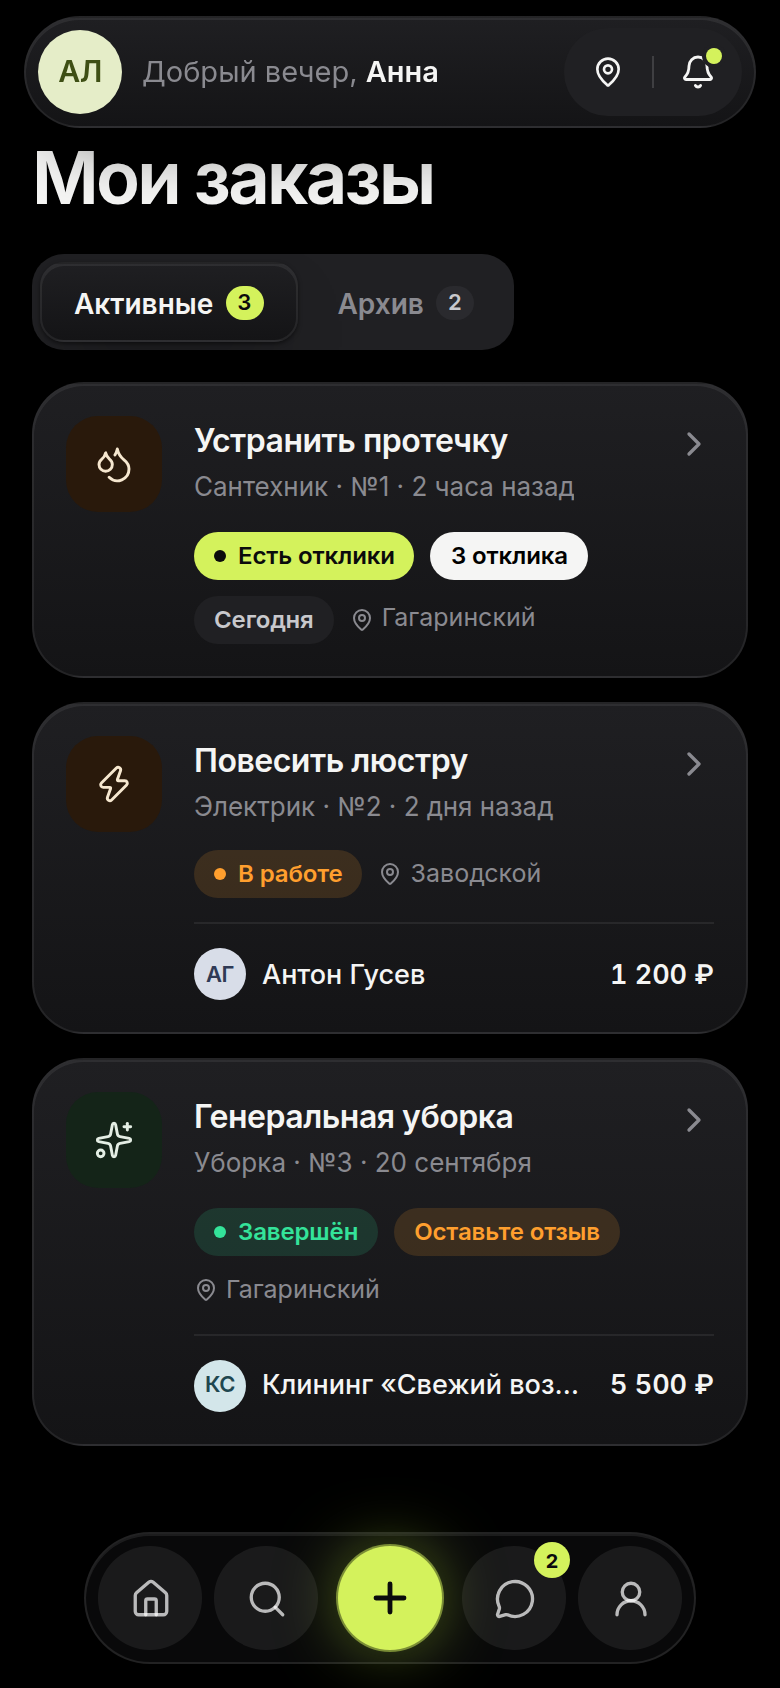
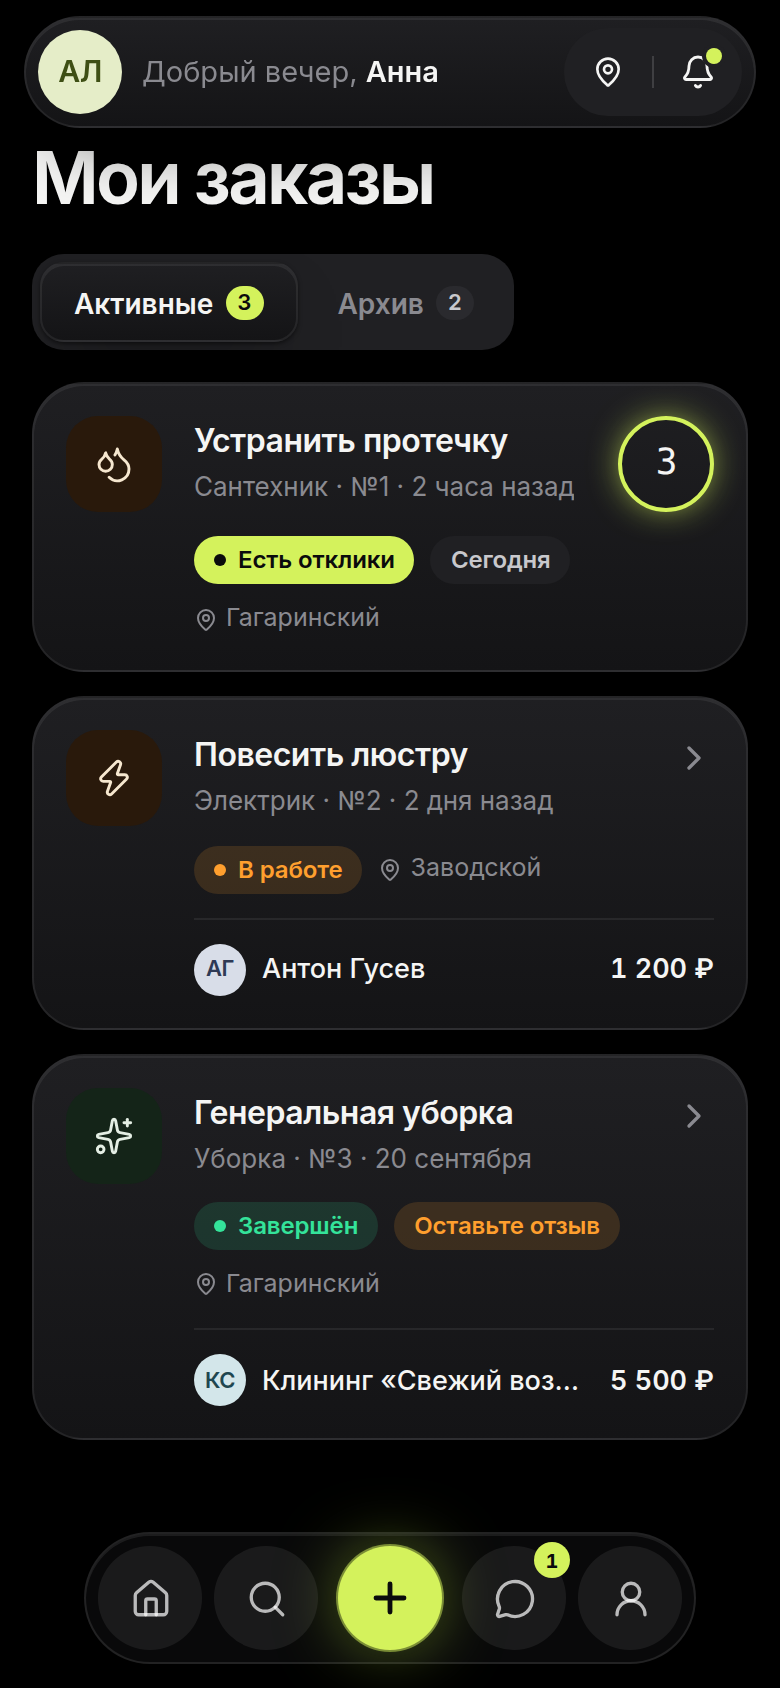
Adopt remaining reference details
- budget dial in the order wizard (tip calculator: -/+ stepper, tick ruler,
  preset pills, monospace digits, typical price in green)
- flight-style live order widget with dot-matrix glow and price/urgency card;
  collapsible to a pill, state remembered per session
- responses counter ring on order cards (Workouts)
- lesson-style tips on home driven by admin FAQ content (surf «Урок 3»)

Claude-Session: https://claude.ai/code/session_01Grf7ik62smv8vTxCKfPZfk

diff --git a/src/components/domain/live-order.tsx b/src/components/domain/live-order.tsx
@@ -1,7 +1,9 @@
+"use client";
 import Link from "next/link";
-import { ArrowUpRight, Hammer, Hourglass, MessageSquareText, UserCheck } from "lucide-react";
+import { useState, useSyncExternalStore } from "react";
+import { ArrowUpRight, ChevronUp, Hammer, Hourglass, MessageSquareText, UserCheck } from "lucide-react";
 import type { OrderListItem } from "@/server/services/orders";
-import { pl } from "@/lib/format";
+import { pl, URGENCY } from "@/lib/format";
 import { cn } from "@/lib/cn";
 
 const STAGES = ["new", "responses", "assigned", "in_progress", "completed"] as const;
@@ -23,35 +25,85 @@ function describe(o: OrderListItem) {
  * «Live activity» for the most relevant active order (references: Workouts timer card, flight progress).
  * Docked above the tab bar on phones, inline on desktop.
  */
+const KEY = "ryadom_live_collapsed";
+
 export function LiveOrder({ order, docked }: { order: OrderListItem; docked?: boolean }) {
+  const stored = useSyncExternalStore(
+    () => () => {},
+    () => sessionStorage.getItem(KEY) === order.id,
+    () => false,
+  );
+  const [toggled, setToggled] = useState<boolean | null>(null);
+  const collapsed = docked && (toggled ?? stored);
+  const toggle = (v: boolean) => {
+    setToggled(v);
+    try {
+      if (v) sessionStorage.setItem(KEY, order.id);
+      else sessionStorage.removeItem(KEY);
+    } catch {}
+  };
   const d = describe(order);
   const stage = STAGES.indexOf(order.status as (typeof STAGES)[number]);
   const pct = Math.max(12, ((stage + 1) / STAGES.length) * 100);
+  const price = order.agreedPrice ?? order.budget;
+  const hot = order.urgency === "urgent" || order.urgency === "today";
+  if (collapsed)
+    return (
+      <button
+        type="button"
+        onClick={() => toggle(false)}
+        aria-label={`Развернуть: заказ «${order.title}», ${d.label}`}
+        className="press fixed bottom-[calc(max(12px,var(--safe-bottom))+76px)] left-1/2 z-30 inline-flex h-11 -translate-x-1/2 items-center gap-2.5 rounded-full border border-white/10 bg-[#0b0b0c] pl-3.5 pr-3 text-[13.5px] text-white shadow-[0_16px_36px_-14px_rgb(0_0_0/0.8)] lg:hidden"
+      >
+        <span className="h-2.5 w-2.5 rounded-full bg-[#c8f050] shadow-[0_0_10px_#c8f050]" />
+        <span className="max-w-[46vw] truncate font-medium">{d.label}</span>
+        <span className="text-white/45 tabular">№{order.number}</span>
+        <ChevronUp className="h-4 w-4 text-white/60" />
+      </button>
+    );
   return (
     <Link
       href={`/orders/${order.id}`}
       aria-label={`Заказ «${order.title}»: ${d.label}`}
       className={cn(
-        "press group block rounded-[28px] border border-white/10 bg-[#0b0b0c] p-4 text-white shadow-[0_24px_50px_-20px_rgb(0_0_0/0.8),inset_0_1px_0_rgb(255_255_255/0.08)]",
+        "press group relative block overflow-hidden rounded-[28px] border border-white/10 bg-[#0b0b0c] p-4 text-white shadow-[0_24px_50px_-20px_rgb(0_0_0/0.8),inset_0_1px_0_rgb(255_255_255/0.08)]",
         docked && "fixed inset-x-3 bottom-[calc(max(12px,var(--safe-bottom))+76px)] z-30 mx-auto max-w-[520px] lg:hidden",
       )}
     >
-      {docked && <span aria-hidden className="mx-auto -mt-1.5 mb-2.5 block h-1 w-10 rounded-full bg-white/25" />}
-      <div className="flex items-center gap-3">
+      {/* dot-matrix glow (reference: flight widget) */}
+      <span aria-hidden className="pointer-events-none absolute inset-0 rounded-[28px] bg-[radial-gradient(circle,rgb(255_255_255/0.16)_1px,transparent_1.4px)] bg-[length:9px_9px] [mask-image:radial-gradient(ellipse_at_top_left,#000,transparent_60%)]" />
+      <span aria-hidden className="pointer-events-none absolute -left-10 -top-10 h-32 w-40 rounded-full bg-[#b7e34a]/15 blur-2xl" />
+      {docked && (
+        <button
+          type="button"
+          onClick={(e) => {
+            e.preventDefault();
+            e.stopPropagation();
+            toggle(true);
+          }}
+          aria-label="Свернуть виджет заказа"
+          className="relative mx-auto -mt-3 mb-1 flex h-7 w-16 items-center justify-center"
+        >
+          <span className="block h-1 w-10 rounded-full bg-white/25" />
+        </button>
+      )}
+      <div className="relative flex items-stretch gap-3">
         <div className="min-w-0 flex-1">
           <p className="truncate text-[12.5px] font-medium text-white/55">
             №{order.number} · {order.title}
           </p>
-          <p className="mt-0.5 truncate text-[22px] font-light leading-tight tracking-[-0.035em]">
-            {d.label}
-            {d.sub && <span className="ml-2 text-[14px] font-normal tracking-normal text-white/50">{d.sub}</span>}
-          </p>
+          <p className="mt-1 truncate text-[23px] font-light leading-tight tracking-[-0.035em]">{d.label}</p>
+          {d.sub && <p className="mt-0.5 truncate text-[13px] text-white/50">{d.sub}</p>}
         </div>
-        <span className="inline-flex h-11 w-11 shrink-0 items-center justify-center rounded-full bg-white/12 transition-transform group-hover:rotate-45">
-          <ArrowUpRight className="h-5 w-5" />
-        </span>
+        <div className="flex w-[40%] max-w-[170px] shrink-0 flex-col justify-between rounded-[18px] border border-white/10 bg-white/[0.04] px-3 py-2.5">
+          <div className="flex items-start justify-between gap-2">
+            <span className="mono text-[17px] leading-tight tabular">{price != null ? `${price.toLocaleString("ru-RU")} ₽` : "цена?"}</span>
+            <ArrowUpRight className="h-4 w-4 shrink-0 text-white/60 transition-transform group-hover:rotate-45" />
+          </div>
+          <span className={cn("mt-1 text-[11.5px] font-bold uppercase tracking-wide", hot ? "text-[#ff9f2e] [text-shadow:0_0_12px_rgb(255_159_46/0.5)]" : "text-white/45")}>{URGENCY[order.urgency].label}</span>
+        </div>
       </div>
-      <div className="mt-3 flex items-center gap-3">
+      <div className="relative mt-3 flex items-center gap-3">
         <div className="relative h-9 flex-1 overflow-hidden rounded-full bg-white/[0.06] shadow-[inset_0_1px_2px_rgb(0_0_0/0.6)]">
           <div
             className="absolute inset-y-0 left-0 flex items-center justify-end rounded-full bg-[linear-gradient(90deg,#b7e34a,#d9fb6a)] pr-3 shadow-[0_0_24px_rgb(200_245_80/0.55)]"

diff --git a/src/components/domain/budget-dial.tsx b/src/components/domain/budget-dial.tsx
@@ -1,0 +1,77 @@
+"use client";
+import { Minus, Plus } from "lucide-react";
+import { cn } from "@/lib/cn";
+import { useTelegram } from "../telegram/telegram-provider";
+
+function stepFor(v: number) {
+  return v < 3000 ? 100 : v < 20000 ? 500 : 1000;
+}
+
+/**
+ * Budget picker (reference: tip calculator): big monospace amount with −/+,
+ * a tick ruler slider, preset pills and the typical market price.
+ * value = "" means «no budget — providers will propose».
+ */
+export function BudgetDial({ value, onChange, typical }: { value: string; onChange: (v: string) => void; typical: number | null }) {
+  const { haptic } = useTelegram();
+  const base = typical && typical > 0 ? typical : 1000;
+  const max = Math.max(base * 4, 5000);
+  const n = value ? Number(value) : 0;
+  const set = (v: number) => {
+    const clamped = Math.max(0, Math.min(10_000_000, Math.round(v)));
+    onChange(clamped ? String(clamped) : "");
+    haptic("select");
+  };
+  const presets = [base, Math.round((base * 1.5) / 100) * 100, base * 2].filter((v, i, a) => a.indexOf(v) === i);
+
+  return (
+    <div className="rounded-[32px] border border-white/10 bg-[#0b0b0c] p-4 text-white shadow-[inset_0_1px_0_rgb(255_255_255/0.08),0_24px_50px_-24px_rgb(0_0_0/0.8)]">
+      <div className="flex items-center justify-between gap-3">
+        <button type="button" onClick={() => set(n - stepFor(n - 1))} disabled={!n} className="press inline-flex h-12 w-16 items-center justify-center rounded-full bg-white/[0.08] disabled:opacity-30" aria-label="Уменьшить бюджет">
+          <Minus className="h-5 w-5" />
+        </button>
+        <div className="min-w-0 text-center">
+          <p className="mono text-[44px] leading-none tabular">{n ? n.toLocaleString("ru-RU") : "—"}</p>
+          <p className="mt-1 text-[12.5px] text-white/45">{n ? "₽ · ваш бюджет" : "без бюджета"}</p>
+        </div>
+        <button type="button" onClick={() => set(n ? n + stepFor(n) : base)} className="press inline-flex h-12 w-16 items-center justify-center rounded-full bg-white/[0.08]" aria-label="Увеличить бюджет">
+          <Plus className="h-5 w-5" />
+        </button>
+      </div>
+
+      <div className="relative mt-4 h-10">
+        <div aria-hidden className="absolute inset-x-0 top-1/2 h-5 -translate-y-1/2 bg-[repeating-linear-gradient(90deg,rgb(255_255_255/0.28)_0_1px,transparent_1px_10px)] [mask-image:linear-gradient(90deg,transparent,#000_12%,#000_88%,transparent)]" />
+        <div aria-hidden className="absolute inset-x-0 top-1/2 h-8 -translate-y-1/2 bg-[repeating-linear-gradient(90deg,rgb(255_255_255/0.5)_0_1.5px,transparent_1.5px_60px)] [mask-image:linear-gradient(90deg,transparent,#000_12%,#000_88%,transparent)]" />
+        <input
+          type="range"
+          min={0}
+          max={max}
+          step={stepFor(n || base)}
+          value={Math.min(n, max)}
+          onChange={(e) => set(Number(e.target.value))}
+          aria-label="Бюджет"
+          aria-valuetext={n ? `${n} рублей` : "без бюджета"}
+          className="dial-range absolute inset-0 w-full"
+        />
+      </div>
+
+      <div className="mt-3 flex gap-2" role="group" aria-label="Быстрый выбор бюджета">
+        {presets.map((p) => (
+          <button key={p} type="button" onClick={() => set(p)} aria-pressed={n === p} className={cn("press mono h-11 flex-1 rounded-full text-[15px] tabular", n === p ? "bg-white/85 text-black ring-2 ring-white/25 ring-offset-2 ring-offset-[#0b0b0c]" : "bg-white/[0.08] text-white/90")}>
+            {p >= 10000 ? `${Math.round(p / 1000)}k` : p.toLocaleString("ru-RU")}
+          </button>
+        ))}
+        <button type="button" onClick={() => onChange("")} aria-pressed={!n} className={cn("press h-11 rounded-full px-4 text-[13px] font-semibold", !n ? "bg-white/85 text-black" : "bg-white/[0.08] text-white/80")}>
+          Не знаю
+        </button>
+      </div>
+
+      {typical ? (
+        <div className="mt-3 flex items-center justify-between rounded-[20px] bg-white/[0.06] px-4 py-3 text-[14px]">
+          <span className="text-white/55">Обычно стоит</span>
+          <span className="mono text-[#34e39a] tabular">от {typical.toLocaleString("ru-RU")} ₽</span>
+        </div>
+      ) : null}
+    </div>
+  );
+}

diff --git a/src/app/page.tsx b/src/app/page.tsx
@@ -26,7 +26,7 @@ export default async function HomePage() {
     listProviders(city.id, { sort: "available", limit: 10 }),
     listProviders(city.id, { sort: "new", limit: 10 }),
     favoriteIds(user?.id),
-    getContent(["home.urgent", "home.announcement"]),
+    getContent(["home.urgent", "home.announcement", "faq.how", "faq.price", "faq.verify"]),
   ]);
   const popularServices = catalog.categories.flatMap((c) => c.subs.flatMap((s) => s.services.filter((v) => v.isPopular).map((v) => ({ ...v, icon: s.icon })))).slice(0, 14);
   const [first, ...rest] = catalog.categories;
@@ -155,6 +155,32 @@ export default async function HomePage() {
           ))}
         </ol>
       </section>
+
+      {/* Tips — lesson-style cards (reference: surf «Урок 3») */}
+      {(() => {
+        const tips = (["faq.how", "faq.price", "faq.verify"] as const).map((k) => content[k]).filter(Boolean);
+        const art = [["lime", "Sparkles"], ["amber", "Wallet"], ["slate", "ShieldCheck"]];
+        return tips.length ? (
+          <section className="mt-10 lg:mt-16" aria-labelledby="tips">
+            <SectionHeader title={<span id="tips">Полезно знать</span>} />
+            <div className="grid gap-2.5 md:grid-cols-3 md:gap-3">
+              {tips.map((t, i) => (
+                <Link key={t!.key} href="/support" className="press lift bezel group flex overflow-hidden rounded-[28px] p-1.5">
+                  <div className="flex min-w-0 flex-1 flex-col justify-between p-3.5">
+                    <p className="inline-flex items-center gap-1.5 text-[12.5px] font-medium text-muted">
+                      <Sparkles className="h-3.5 w-3.5" /> Совет {i + 1}
+                    </p>
+                    <p className="mt-2 text-[17px] font-medium leading-snug tracking-[-0.02em]">{t!.title}</p>
+                    <p className="mt-3 text-[13px] font-semibold">Читать →</p>
+                  </div>
+                  {/* eslint-disable-next-line @next/next/no-img-element */}
+                  <img src={`/art/${art[i][0]}/${art[i][1]}/tip-${i}.svg?w=480&h=520`} alt="" loading="lazy" className="w-[38%] shrink-0 rounded-[22px] object-cover transition-transform duration-700 group-hover:scale-[1.03]" />
+                </Link>
+              ))}
+            </div>
+          </section>
+        ) : null;
+      })()}
 
       <section className="mt-10 lg:mt-16">
         <SectionHeader title="Новые исполнители" subtitle={`Недавно присоединились ${city.nameIn}`} />

diff --git a/src/components/domain/order-card.tsx b/src/components/domain/order-card.tsx
@@ -33,11 +33,20 @@ export function OrderCard({ o, href, extra, viewer = "client", clientName }: { o
               {o.subName} · №{o.number} · {relative(o.createdAt)}
             </p>
           </div>
-          <ChevronRight className="mt-1 h-5 w-5 shrink-0 text-muted transition-transform group-hover:translate-x-0.5" />
+          {(o.status === "new" || o.status === "responses") && viewer === "client" ? (
+            <span
+              className={cn("mono inline-flex h-12 w-12 shrink-0 flex-col items-center justify-center rounded-full border-2 text-[18px] leading-none tabular", o.responsesCount ? "border-accent text-ink shadow-[0_0_18px_-4px_var(--accent)]" : "border-line-strong text-muted")}
+              title={pl(o.responsesCount, ["отклик", "отклика", "откликов"])}
+              aria-label={pl(o.responsesCount, ["отклик", "отклика", "откликов"])}
+            >
+              {o.responsesCount}
+            </span>
+          ) : (
+            <ChevronRight className="mt-1 h-5 w-5 shrink-0 text-muted transition-transform group-hover:translate-x-0.5" />
+          )}
         </div>
         <div className="mt-3 flex flex-wrap items-center gap-2">
           <OrderStatusBadge status={o.status} />
-          {(o.status === "new" || o.status === "responses") && o.responsesCount > 0 && <Badge tone="ink">{pl(o.responsesCount, ["отклик", "отклика", "откликов"])}</Badge>}
           {(o.status === "new" || o.status === "responses") && <Badge>{URGENCY[o.urgency].label}</Badge>}
           {needsReview && <Badge tone="warning">Оставьте отзыв</Badge>}
           {o.districtName && (

diff --git a/src/app/order/new/wizard.tsx b/src/app/order/new/wizard.tsx
@@ -15,6 +15,7 @@ import { Input, Textarea } from "@/components/ui/field";
 import { RatingInline } from "@/components/ui/rating";
 import { useToast } from "@/components/ui/toast";
 import { useMainButton, useTelegram } from "@/components/telegram/telegram-provider";
+import { BudgetDial } from "@/components/domain/budget-dial";
 
 export type WizardCatalog = {
   id: number;
@@ -450,7 +451,12 @@ export function OrderWizard({
               })}
             </div>
             {errors.urgency && <p className="mt-2 px-1 text-[13px] text-danger">{errors.urgency}</p>}
-            <Input className="mt-5" label="Бюджет, ₽" optional inputMode="numeric" placeholder="Например, 1500" value={d.budget} onChange={(e) => set({ budget: e.target.value.replace(/[^\d]/g, "").slice(0, 8) })} hint="Можно оставить пустым — исполнители предложат цену" />
+            <div className="mt-6">
+              <p className="mb-2 px-1 text-[13px] font-semibold text-ink-2">
+                Бюджет <span className="font-normal text-muted">· необязательно — исполнители предложат цену</span>
+              </p>
+              <BudgetDial value={d.budget} onChange={(budget) => set({ budget })} typical={(d.serviceId ? (providerPrice(d.serviceId) ?? svcById.get(d.serviceId)?.priceFrom) : null) ?? null} />
+            </div>
           </section>
         )}
 

diff --git a/src/app/globals.css b/src/app/globals.css
@@ -296,6 +296,47 @@
     font-variant-numeric: tabular-nums;
     line-height: 0.95;
   }
+  /* monospace numerals (reference: tip calculator) */
+  .mono {
+    font-family: ui-monospace, "SF Mono", "JetBrains Mono", Menlo, Consolas, monospace;
+    font-weight: 400;
+    letter-spacing: -0.03em;
+  }
+  /* slider over a tick ruler: transparent track, thin lime needle */
+  .dial-range {
+    appearance: none;
+    background: transparent;
+    cursor: grab;
+  }
+  .dial-range::-webkit-slider-runnable-track {
+    height: 40px;
+    background: transparent;
+  }
+  .dial-range::-moz-range-track {
+    height: 40px;
+    background: transparent;
+  }
+  .dial-range::-webkit-slider-thumb {
+    appearance: none;
+    width: 4px;
+    height: 40px;
+    border-radius: 2px;
+    background: #34e39a;
+    box-shadow: 0 0 14px rgb(52 227 154 / 0.7);
+  }
+  .dial-range::-moz-range-thumb {
+    width: 4px;
+    height: 40px;
+    border: 0;
+    border-radius: 2px;
+    background: #34e39a;
+    box-shadow: 0 0 14px rgb(52 227 154 / 0.7);
+  }
+  .dial-range:focus-visible {
+    outline: 2px solid #fff;
+    outline-offset: 4px;
+    border-radius: 12px;
+  }
   .grain::after {
     content: "";
     position: absolute;
